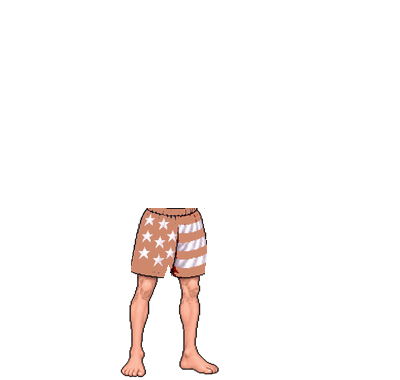
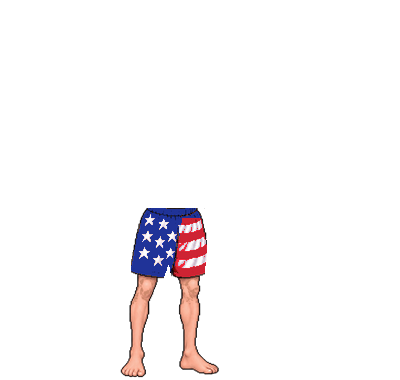
Espa's bare standing shorts use the real flag colors
The shared standing body had faded tan flag shorts, so Espa's shorts turned beige whenever he was stripped while standing, hit or celebrating. Recolored to navy with stars and red/white stripes to match attack and block.

Claude-Session: https://claude.ai/code/session_012zVcprR4KorysHkABMXdfX

Changed region(s): [[0.33, 0.55, 0.54, 0.7526]]

diff --git a/farmeando/public/game.js b/farmeando/public/game.js
@@ -795,8 +795,8 @@ function loop(now) { const dt = Math.min(0.05, (now - last) / 1000 || 0); last =
   await Promise.all([
     ...['kunte', 'espa'].flatMap(c => ['guard', 'attack', 'block', 'hit', 'win1', 'win2'].map(p => loadImg(c + '_' + p, 'assets/' + c + '_' + p + '.png?v=14'))),
     ...['kunte', 'espa'].flatMap(c => Object.keys(SILO_POSES).flatMap(pose => [
-      ...['sonrisa', 'grito', 'serio', 'sonrisilla'].map(fn => loadImg(c + '_' + pose + '_face_' + fn, 'assets/silo/' + c + '_' + pose + '_face_' + fn + '.png?v=20')),
-      ...[0, 1, 2, 3, 4].flatMap(i => [loadImg(c + '_' + pose + '_saco_' + i, 'assets/silo/' + c + '_' + pose + '_saco_' + i + '.png?v=20'), loadImg(c + '_' + pose + '_panta_' + i, 'assets/silo/' + c + '_' + pose + '_panta_' + i + '.png?v=20')])
+      ...['sonrisa', 'grito', 'serio', 'sonrisilla'].map(fn => loadImg(c + '_' + pose + '_face_' + fn, 'assets/silo/' + c + '_' + pose + '_face_' + fn + '.png?v=21')),
+      ...[0, 1, 2, 3, 4].flatMap(i => [loadImg(c + '_' + pose + '_saco_' + i, 'assets/silo/' + c + '_' + pose + '_saco_' + i + '.png?v=21'), loadImg(c + '_' + pose + '_panta_' + i, 'assets/silo/' + c + '_' + pose + '_panta_' + i + '.png?v=21')])
     ])),
     fetch('assets/fx/fx.json?v=7').then(r => r.json()).then(j => { FXM = j; return Promise.all(Object.keys(j).map(k => loadImg('fx_' + k, 'assets/fx/' + k + '.png?v=7'))); }).catch(() => { }),
     loadImg('kunte_ko', 'assets/kunte_ko.png'), loadImg('espa_ko', 'assets/espa_ko.png'),

diff --git a/farmeando/public/index.html b/farmeando/public/index.html
@@ -110,6 +110,6 @@
     </div>
   </div>
 </div>
-<script src="game.js?v=21"></script>
+<script src="game.js?v=22"></script>
 </body>
 </html>
